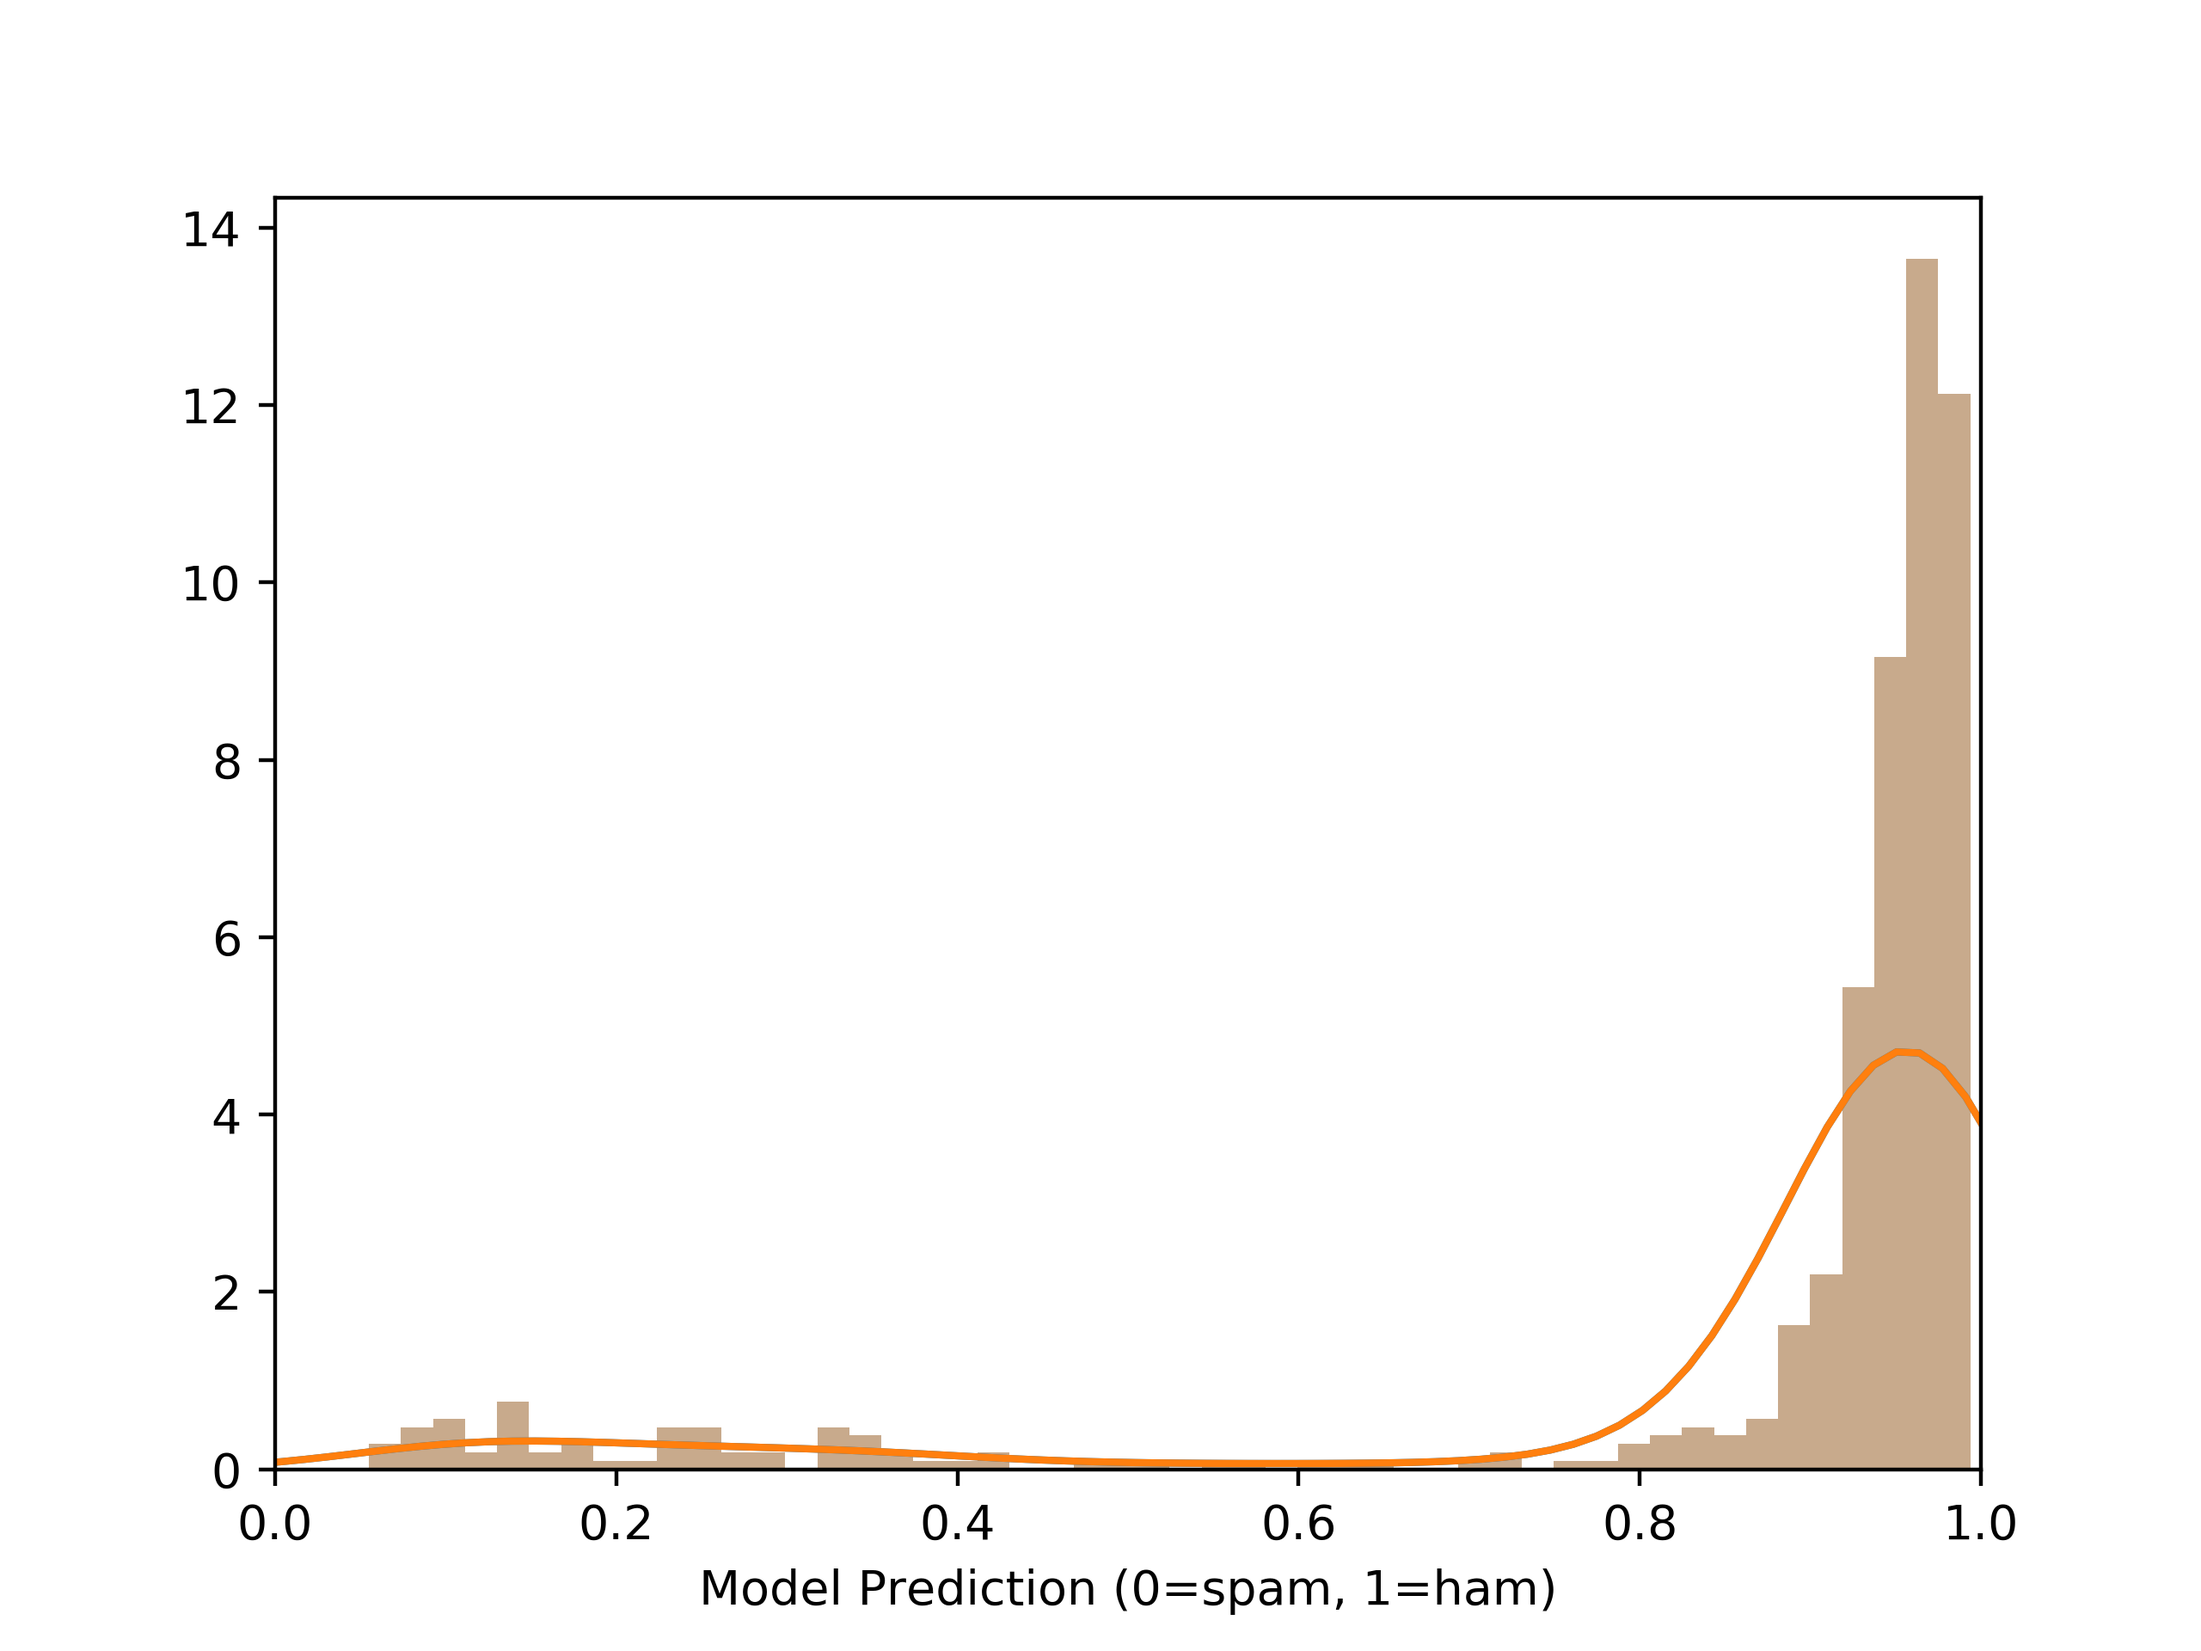
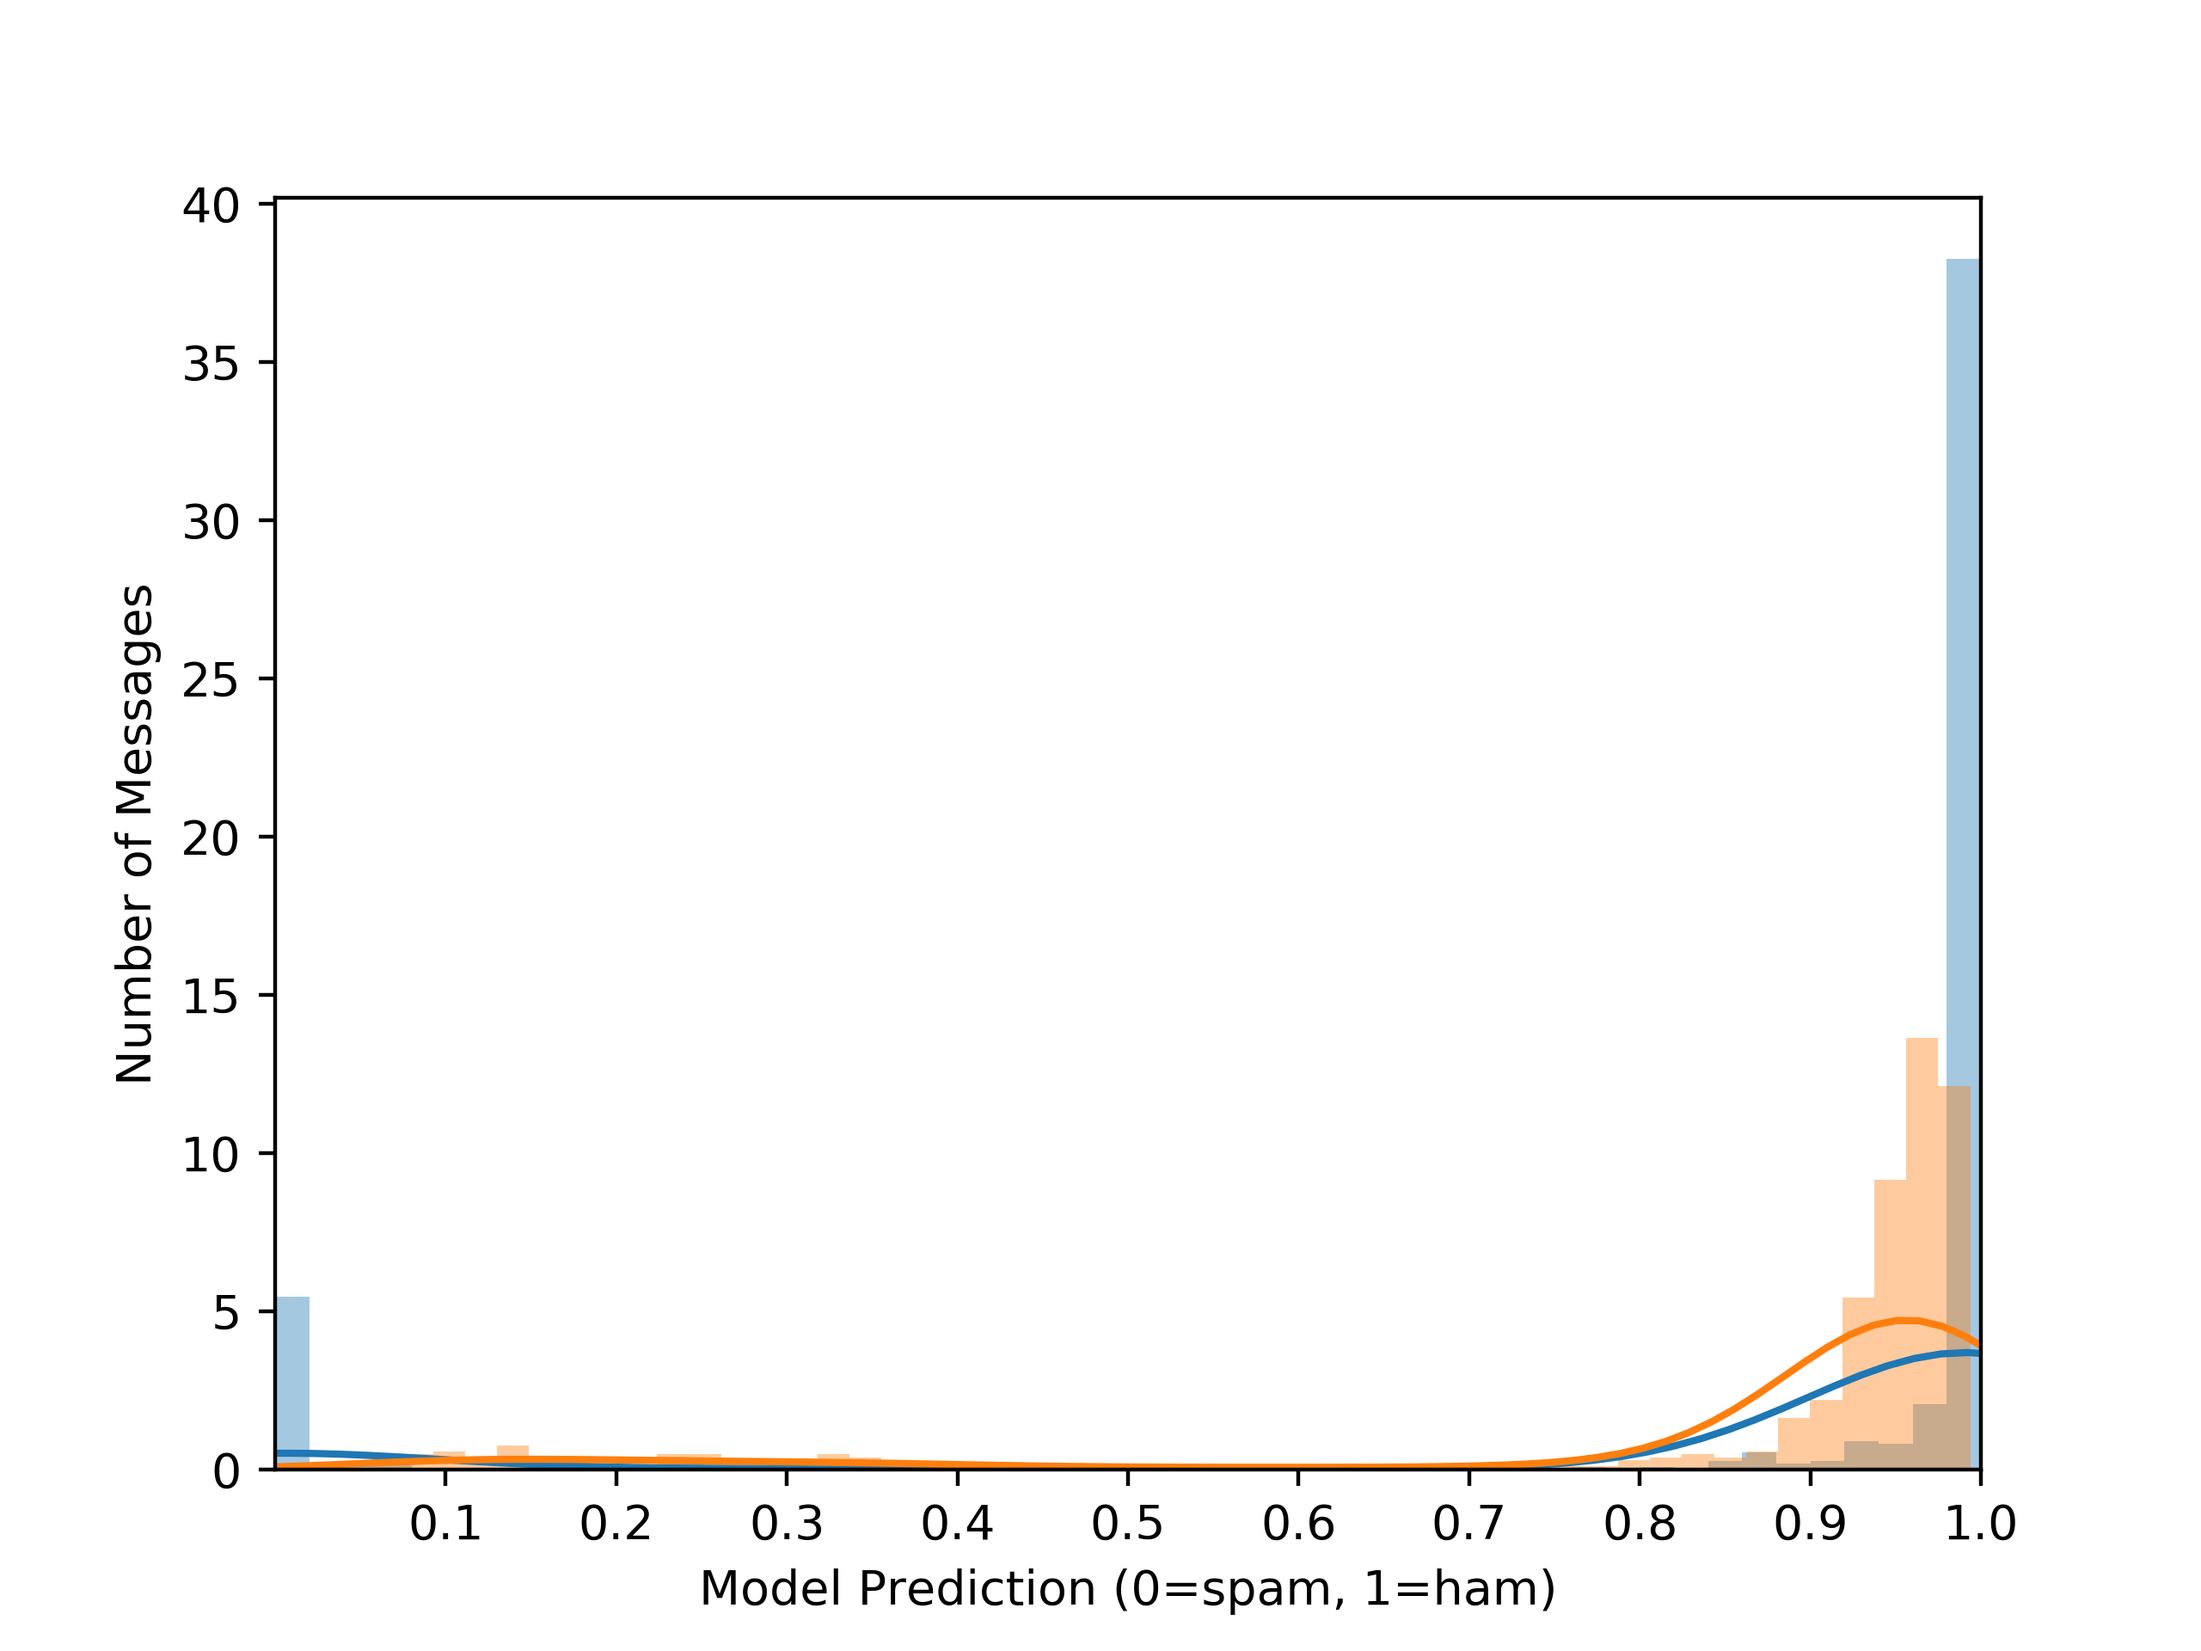
final viz

diff --git a/02_scripts/04_viz.py b/02_scripts/04_viz.py
@@ -26,11 +26,17 @@ if __name__ == "__main__":
     # pp.pprint(df_all.head())
 
     # distribution of y_pred_proba_x
-    plot = sns.distplot(df_all['y_pred_proba_x'], axlabel='Model Prediction (0=spam, 1=ham)', label='Message Count')
+    plot = sns.distplot(df_all['y_pred_proba_y'])
     plot.set(xlim=(0,1), ylim=(0,None))
+    plt.xticks([0.1,0.2,0.3,0.4,0.5,0.6,0.7,0.8,0.9,1])
+    plt.xlabel("Model Prediction (0=spam, 1=ham)")
+    plt.ylabel("Number of Messages")
     plt.savefig("../03_results/02_visualizations/plot_01.png", dpi=400)
 
     # distribution of y_pred_proba_y
-    plot = sns.distplot(df_all['y_pred_proba_x'], axlabel='Model Prediction (0=spam, 1=ham)', label='Message Count')
+    plot = sns.distplot(df_all['y_pred_proba_x'])
     plot.set(xlim=(0,1), ylim=(0,None))
+    plt.xticks([0.1,0.2,0.3,0.4,0.5,0.6,0.7,0.8,0.9,1])
+    plt.xlabel("Model Prediction (0=spam, 1=ham)")
+    plt.ylabel("Number of Messages")
     plt.savefig("../03_results/02_visualizations/plot_02.png", dpi=400)
